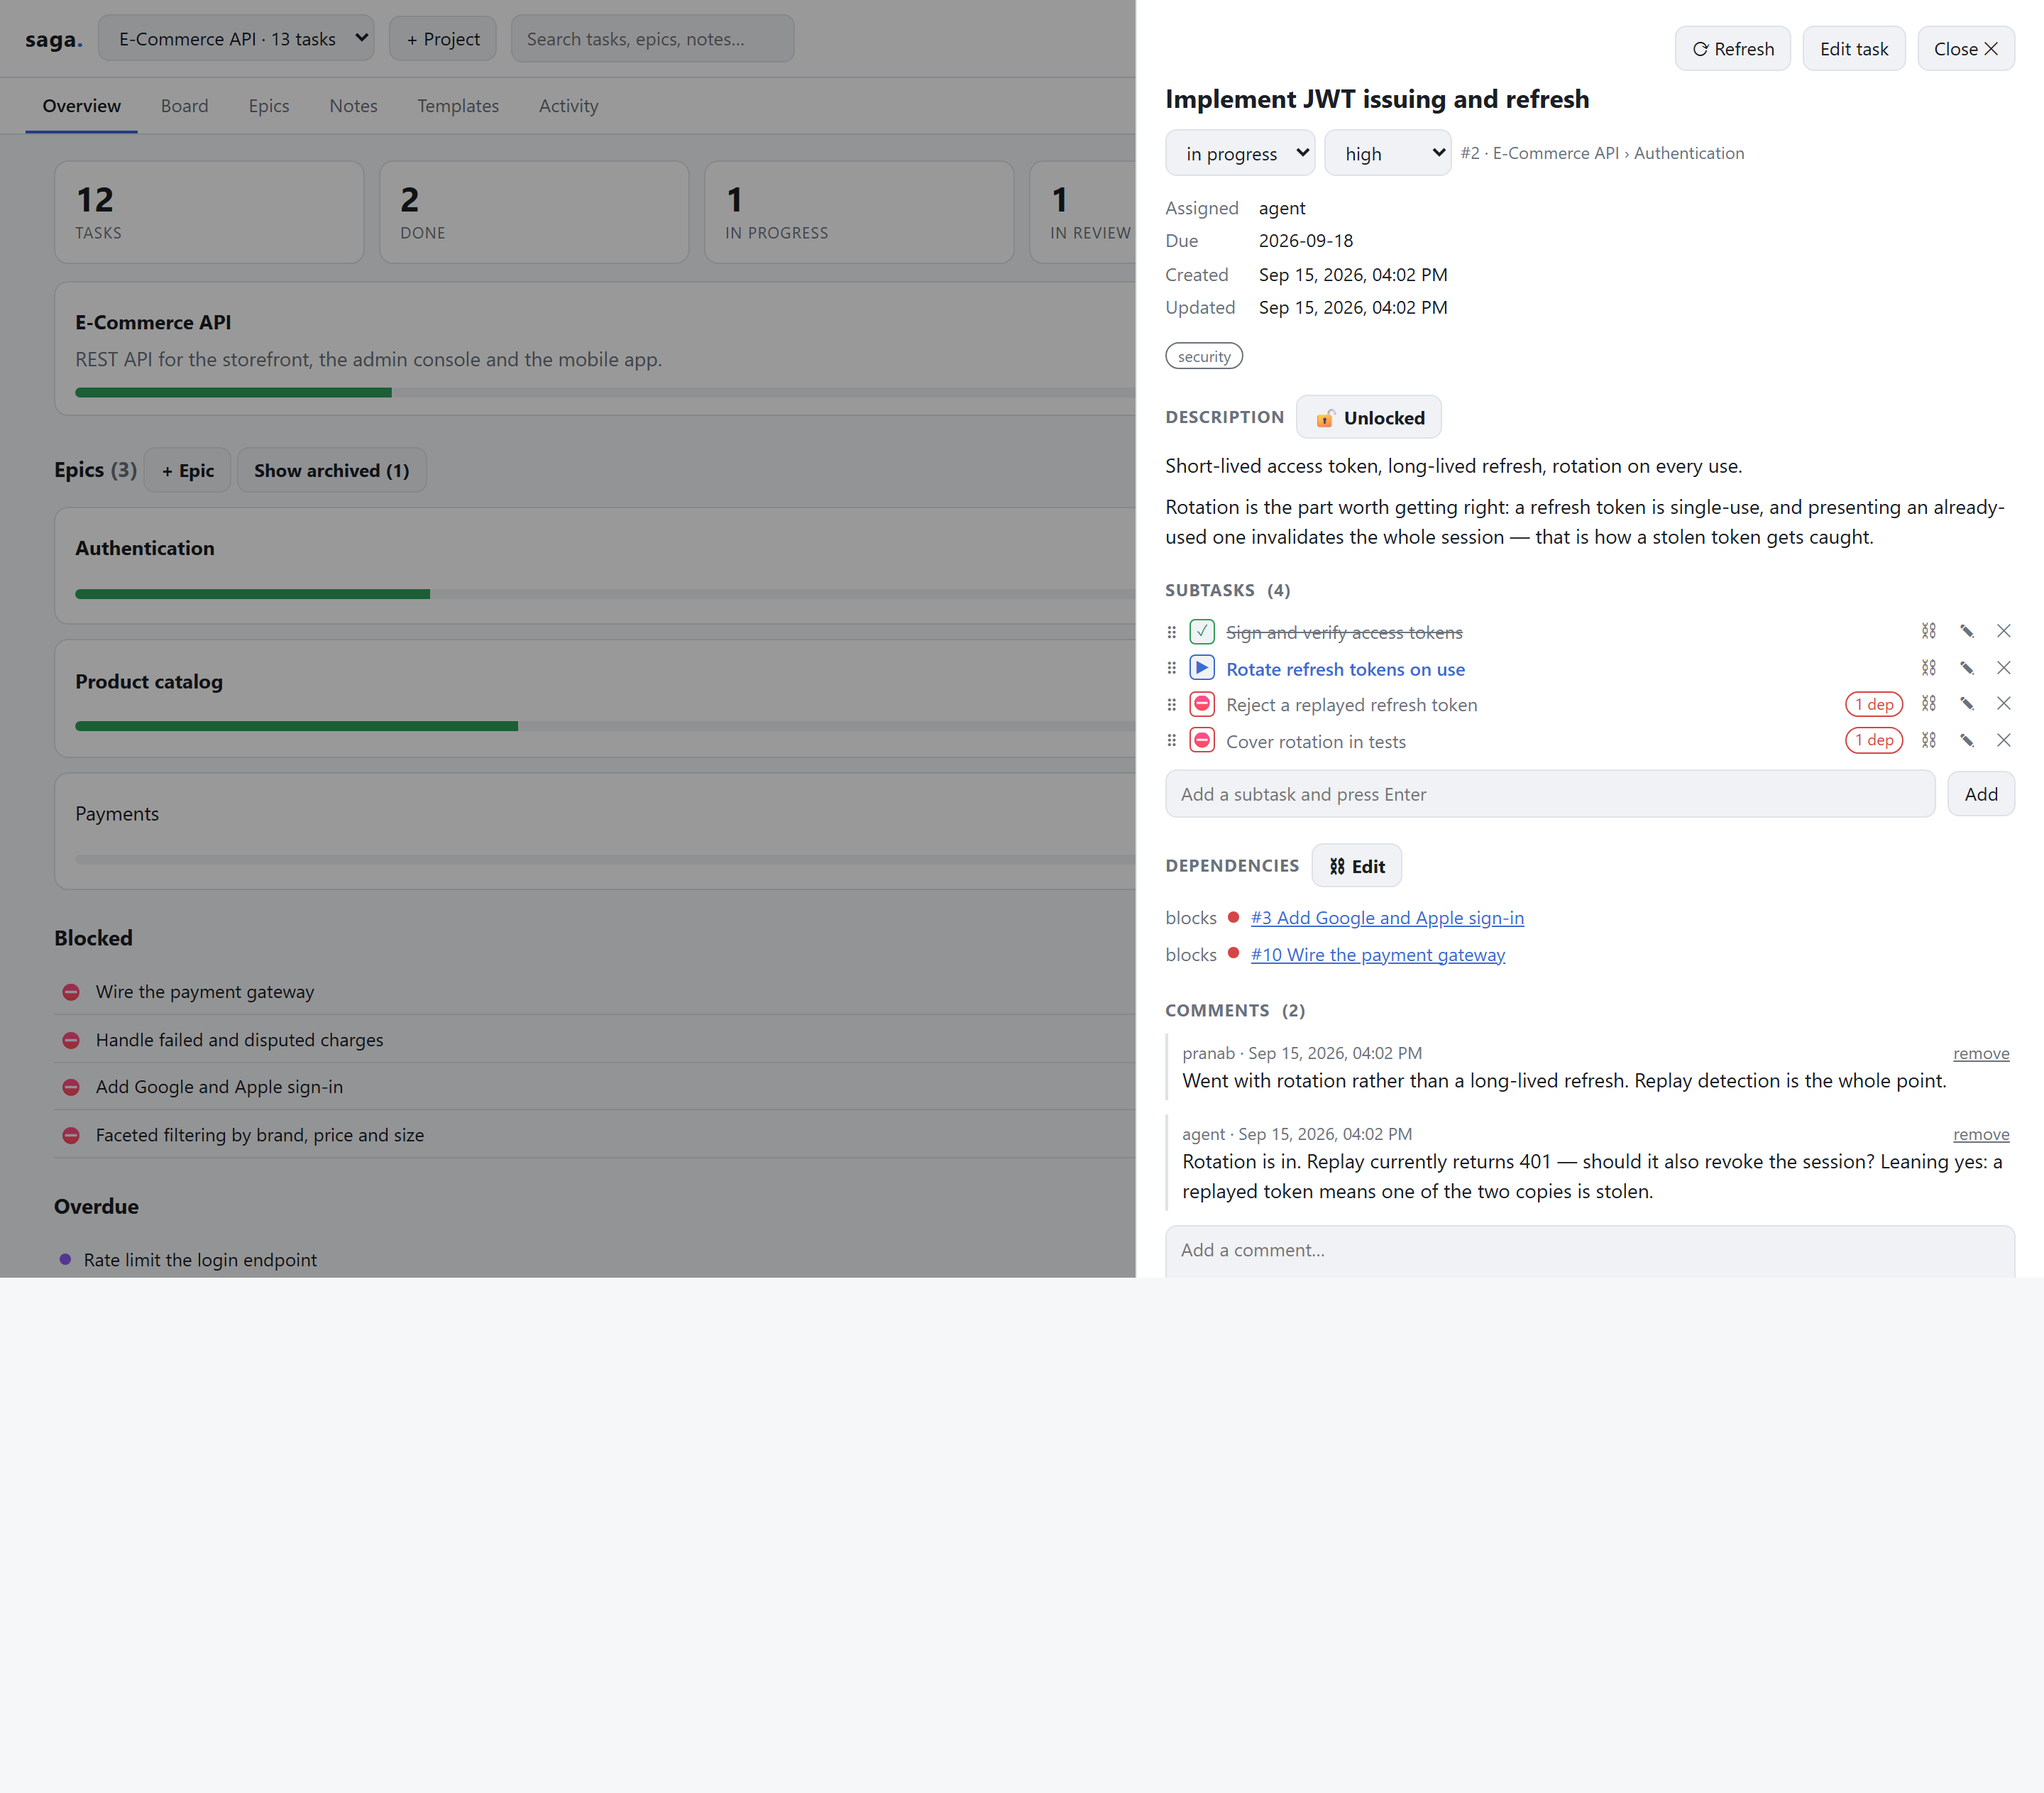
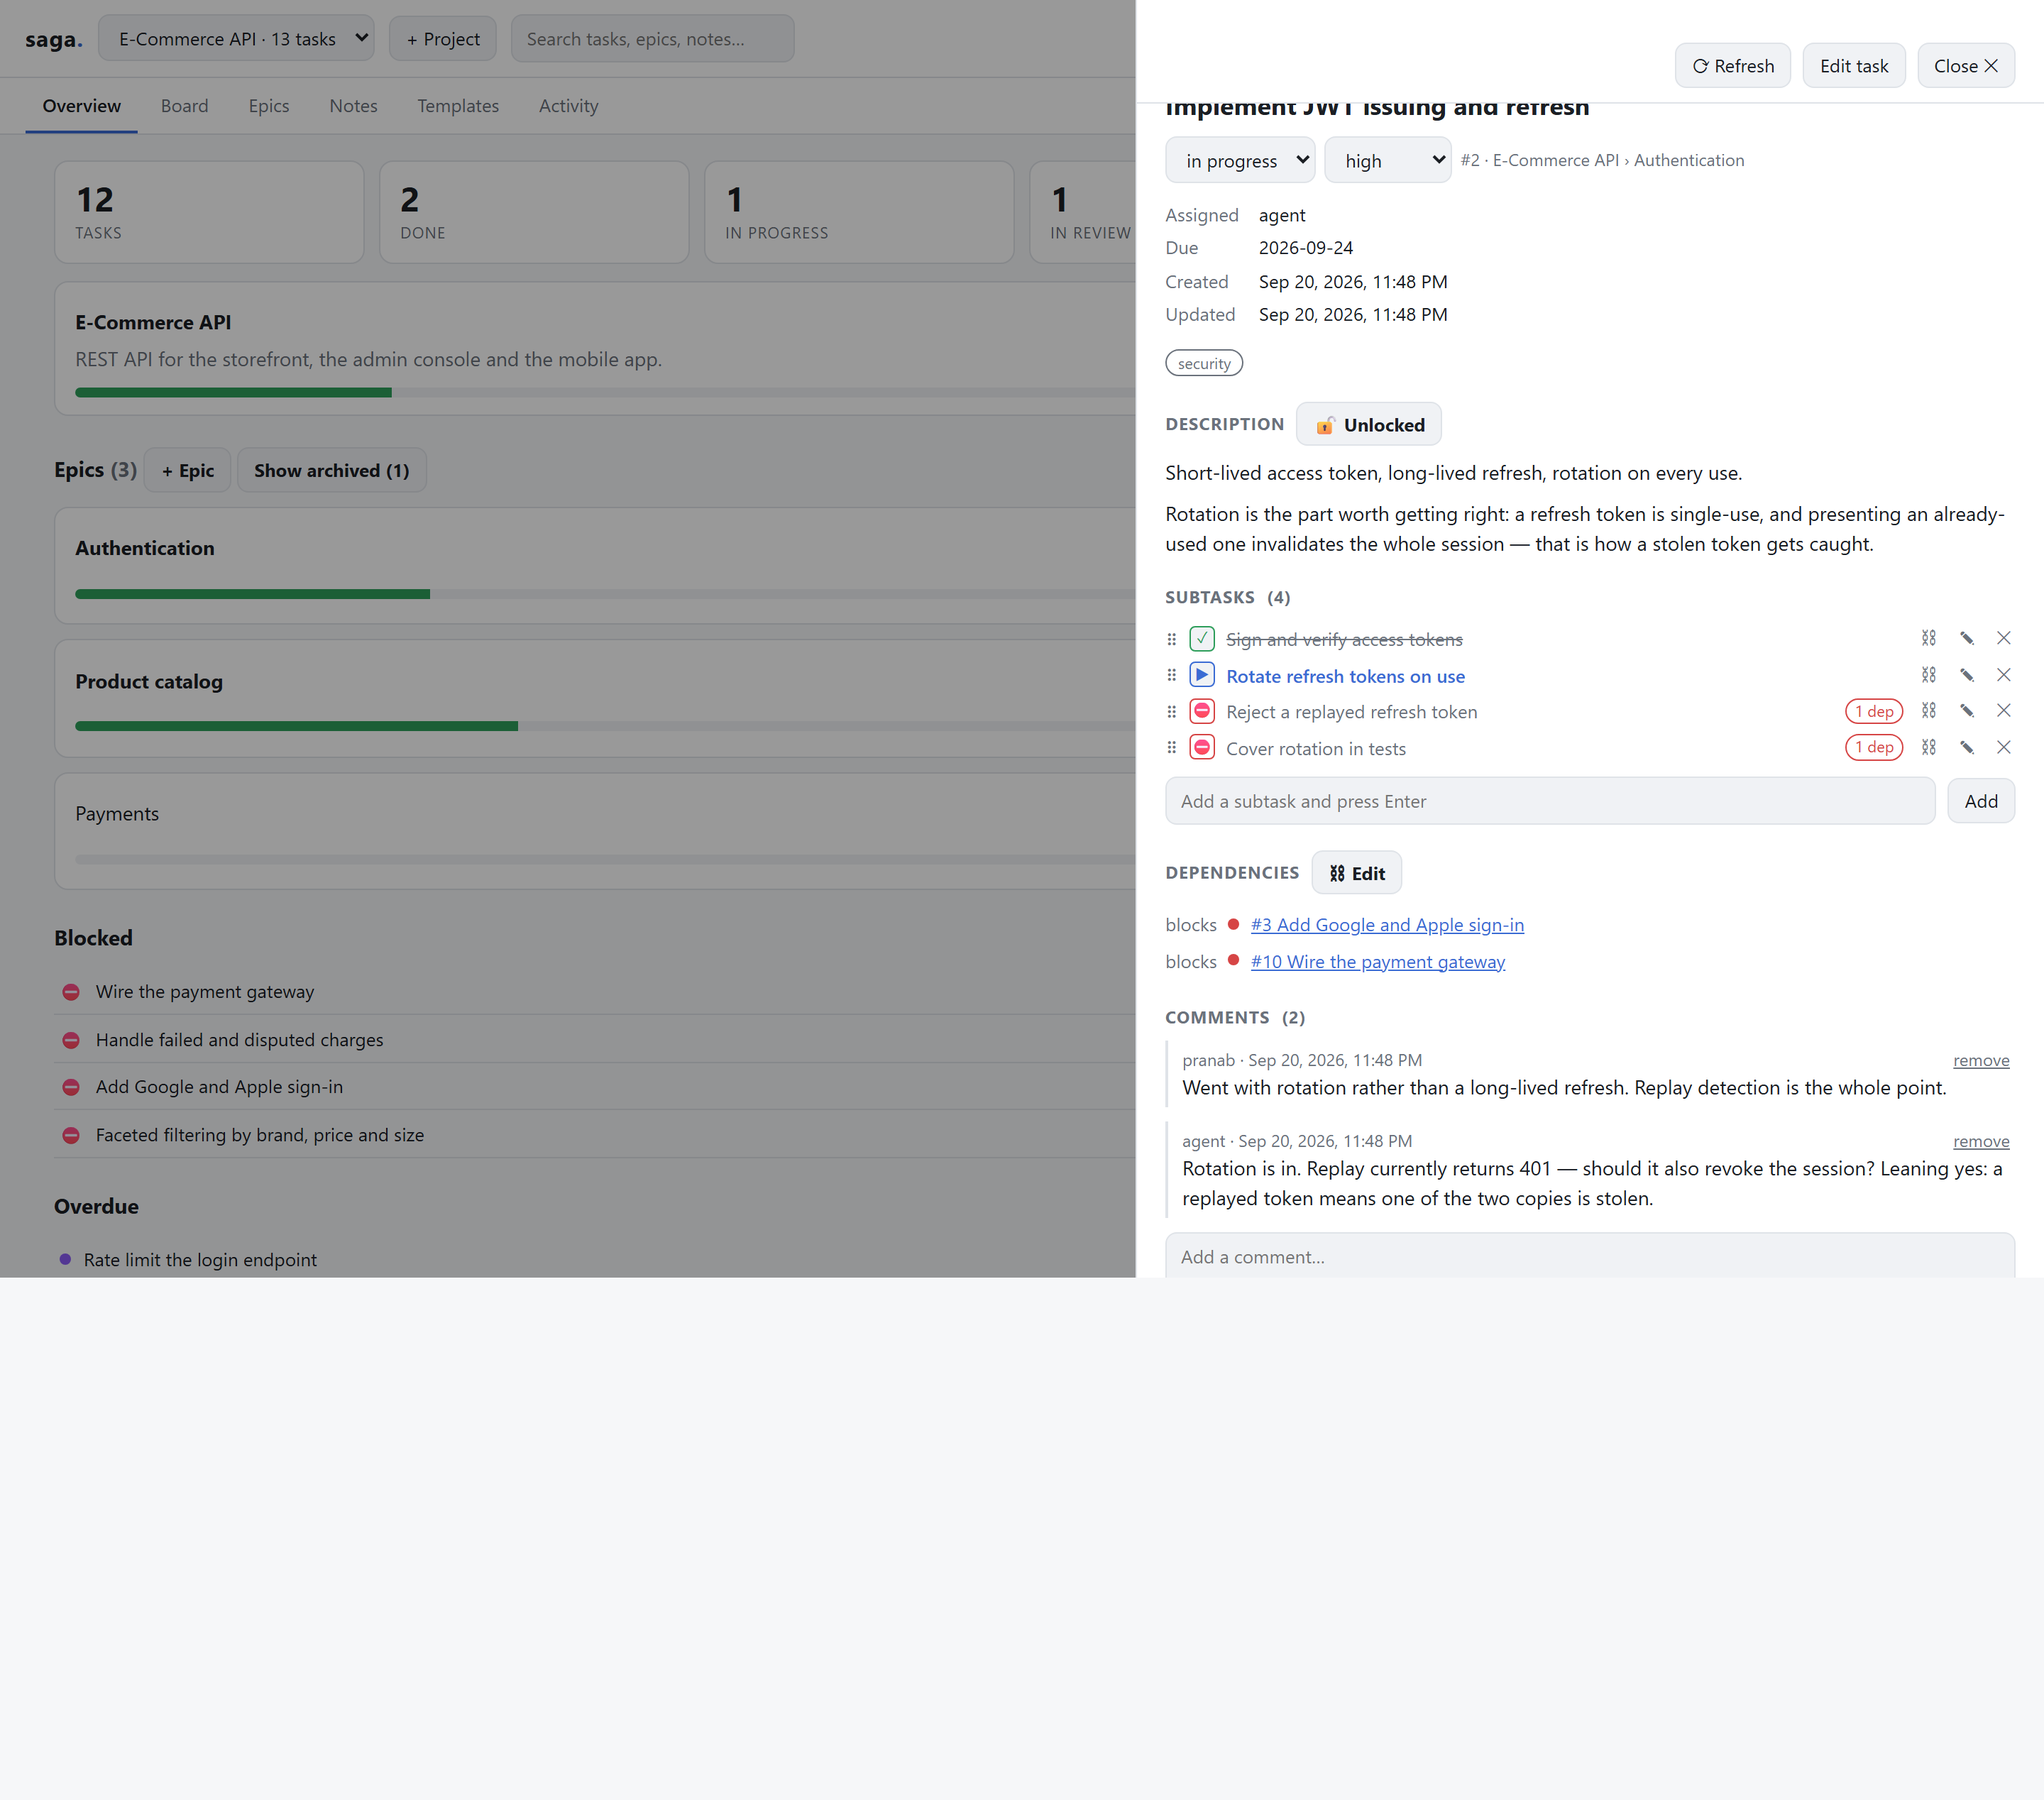
Pin the drawer's actions to the top, and a form's Save to the bottom (#59)
Reported by @rusak47 in #57: the page header and tab bar are sticky, so
the Epics page keeps its buttons in view wherever you scroll. The task
drawer is not. `.drawer` is fixed for its box, but its contents scroll as
one block, so on a long task — subtasks, dependencies, a comment thread,
the history — Refresh and Edit end up above the top of the panel and the
only way back to them is to scroll back.

The action row is now pinned to the drawer's own scrollport, the same
pattern the outer nav uses on the window. Negative margins let the bar
span the drawer's padding, so nothing scrolls past it through the
gutters, and it carries the panel background, because a see-through
sticky bar is worse than a button that is merely out of reach. The resize
grip is lifted above it, or a drag started at the top of the drawer's
left edge would land on the bar instead.

The modal has the same defect at the other end: it scrolls at 86vh, and
the dependency picker (#45) is long enough to push Save off the bottom.
Same treatment, pinned to the bottom instead.

Four new tests read the stylesheet rather than a screenshot, so they hold
whatever height the panel turns out to be: both rows sticky, both opaque,
both used by the markup, and the grip still above the bar. Verified in a
real browser as well, with the drawer scrolled to the end of the history.

diff --git a/test/page.test.js b/test/page.test.js
@@ -293,6 +293,65 @@ test('a read-only page offers no archive controls at all', () => {
   }
 });
 
+/* ---------- controls stay reachable in a scrolling panel (#57) ---------- */
+
+/**
+ * Reported by @rusak47: the page header and tabs are sticky, so the Epics page
+ * keeps its buttons in view, but the task drawer scrolls as one block — and on
+ * a long task its Refresh and Edit buttons end up above the top of the panel,
+ * reachable only by scrolling back.
+ *
+ * These read the stylesheet rather than a screenshot, so they hold whatever the
+ * panel's height turns out to be.
+ */
+
+/** The declarations of one rule, as a map. */
+function ruleOf(selector) {
+  const out = {};
+  for (const [, rawSelector, body] of css.matchAll(/([^{}]+)\{([^}]*)\}/g)) {
+    if (!rawSelector.split(',').map((s) => s.trim()).includes(selector)) continue;
+    for (const part of body.split(';')) {
+      const colon = part.indexOf(':');
+      if (colon < 0) continue;
+      out[part.slice(0, colon).trim()] = part.slice(colon + 1).trim();
+    }
+  }
+  return out;
+}
+
+test('the drawer pins its action row to the top of its own scroll', () => {
+  const rule = ruleOf('.drawer-actions');
+  assert.equal(rule.position, 'sticky', 'the row must stay put while the drawer scrolls');
+  assert.equal(rule.top, '0');
+  assert.ok(script.includes('class="row drawer-actions"'), 'the drawer must use the pinned row');
+});
+
+test('the pinned row is opaque, so content cannot scroll through it', () => {
+  // A sticky bar with no background lets the text underneath read through it,
+  // which is worse than the buttons being out of reach.
+  const rule = ruleOf('.drawer-actions');
+  assert.equal(rule.background, 'var(--panel)', 'a see-through bar is worse than a hidden button');
+  assert.ok(rule.margin?.includes('-'), 'negative margins span the drawer padding, leaving no gutter');
+});
+
+test('a long form keeps its own submit button in view', () => {
+  // The same defect at the other end of the panel: the dependency picker (#45)
+  // is long enough to scroll Save off the bottom.
+  const rule = ruleOf('.modal-actions');
+  assert.equal(rule.position, 'sticky');
+  assert.equal(rule.bottom, '0');
+  assert.equal(rule.background, 'var(--panel)', 'a see-through bar is worse than a hidden button');
+  assert.ok(script.includes('class="row modal-actions"'), 'the modal must use the pinned row');
+});
+
+test('the drawer can still be resized where the pinned row covers its edge', () => {
+  // The grip is a 6px strip down the drawer's left edge; a pinned row painted
+  // over it would swallow the drag at the top of the panel.
+  const grip = Number(ruleOf('.drawer-resize')['z-index']);
+  const bar = Number(ruleOf('.drawer-actions')['z-index']);
+  assert.ok(grip > bar, `the resize grip (z-index ${grip}) must stay above the pinned row (${bar})`);
+});
+
 /* ---------- CSS cascade ---------- */
 
 /** Every rule that declares `property`, in source order. */

diff --git a/src/web/ui.ts b/src/web/ui.ts
@@ -194,10 +194,30 @@ pre.body {
   background: var(--panel); border-left: 1px solid var(--border);
   z-index: 31; overflow-y: auto; padding: 18px 20px 60px;
 }
+/*
+ * The drawer scrolls as one block, so an action row left in the flow leaves
+ * with the content: on a long task, Refresh and Edit end up above the top of
+ * the drawer and you have to scroll back for them (#57, reported by @rusak47).
+ * Pin it to the drawer's own scrollport, the way the page header and tabs are
+ * already pinned to the window. The negative margins let the bar span the
+ * drawer's padding, so nothing scrolls past it through the gutters.
+ */
+.drawer-actions {
+  position: sticky; top: 0; z-index: 1;
+  margin: -18px -20px 0; padding: 12px 20px 10px;
+  background: var(--panel); border-bottom: 1px solid var(--border);
+}
+/* The same thing at the other end: a long form scrolls its own buttons away. */
+.modal-actions {
+  position: sticky; bottom: 0; z-index: 1;
+  margin: 6px -20px -18px; padding: 10px 20px 14px;
+  background: var(--panel); border-top: 1px solid var(--border);
+  justify-content: flex-end;
+}
 /* Drag the left edge to widen the drawer; the width is remembered per browser. */
 .drawer-resize {
   position: absolute; left: 0; top: 0; bottom: 0; width: 6px;
-  cursor: ew-resize; background: transparent;
+  cursor: ew-resize; background: transparent; z-index: 2;
 }
 .drawer-resize:hover, .drawer-resize.active { background: var(--accent); opacity: .5; }
 body.resizing { cursor: ew-resize; user-select: none; }
@@ -683,7 +703,7 @@ function modal(title, fields, submitLabel, onSubmit) {
     h += '</div>';
   });
   h += '<p class="err" id="merr" hidden></p>';
-  h += '<div class="row" style="justify-content:flex-end;margin-top:6px">' +
+  h += '<div class="row modal-actions">' +
        '<button type="button" class="btn" id="mcancel">Cancel</button>' +
        '<button type="submit" class="btn primary">' + esc(submitLabel) + '</button></div></form>';
   m.innerHTML = h;
@@ -1351,7 +1371,7 @@ function drawTask() {
   if (savedWidth) d.style.width = savedWidth;
 
   var h = '<div class="drawer-resize" id="drawerResize" title="Drag to resize"></div>' +
-    '<div class="row"><span class="grow"></span>' +
+    '<div class="row drawer-actions"><span class="grow"></span>' +
     '<button class="btn" id="refreshTask" title="Re-read this task from the database">⟳ Refresh</button>' +
     (ed && t.is_deleted ? '<button class="btn" id="restoreTask">Restore</button>' : '') +
     (ed && !t.is_deleted && t.status === 'todo'

diff --git a/README.md b/README.md
@@ -440,7 +440,8 @@ And throughout:
 - **Task drawer** — edit any field, comment, remove or restore a comment, lock the description,
   drag subtasks into order, and set which subtasks wait on which. Each subtask has one control
   carrying its whole state (todo / in progress / done, or blocked), and the drawer resizes by
-  dragging its edge
+  dragging its edge. Its Refresh/Edit/Close row stays pinned to the top however far you scroll,
+  as a long form keeps its Save button in view
 
 <picture>
   <source media="(prefers-color-scheme: dark)" srcset="https://raw.githubusercontent.com/spranab/saga-mcp/master/docs/screenshots/task-dark.png">
@@ -659,7 +660,7 @@ DB_PATH=./test.db npm start
 # the web UI against the same database
 node dist/web/index.js ./test.db --open
 
-npm test     # 342 unit and integration tests, no network
+npm test     # 346 unit and integration tests, no network
 npm run e2e  # release gate: packs a tarball, installs it, drives the real binaries
 ```
 
